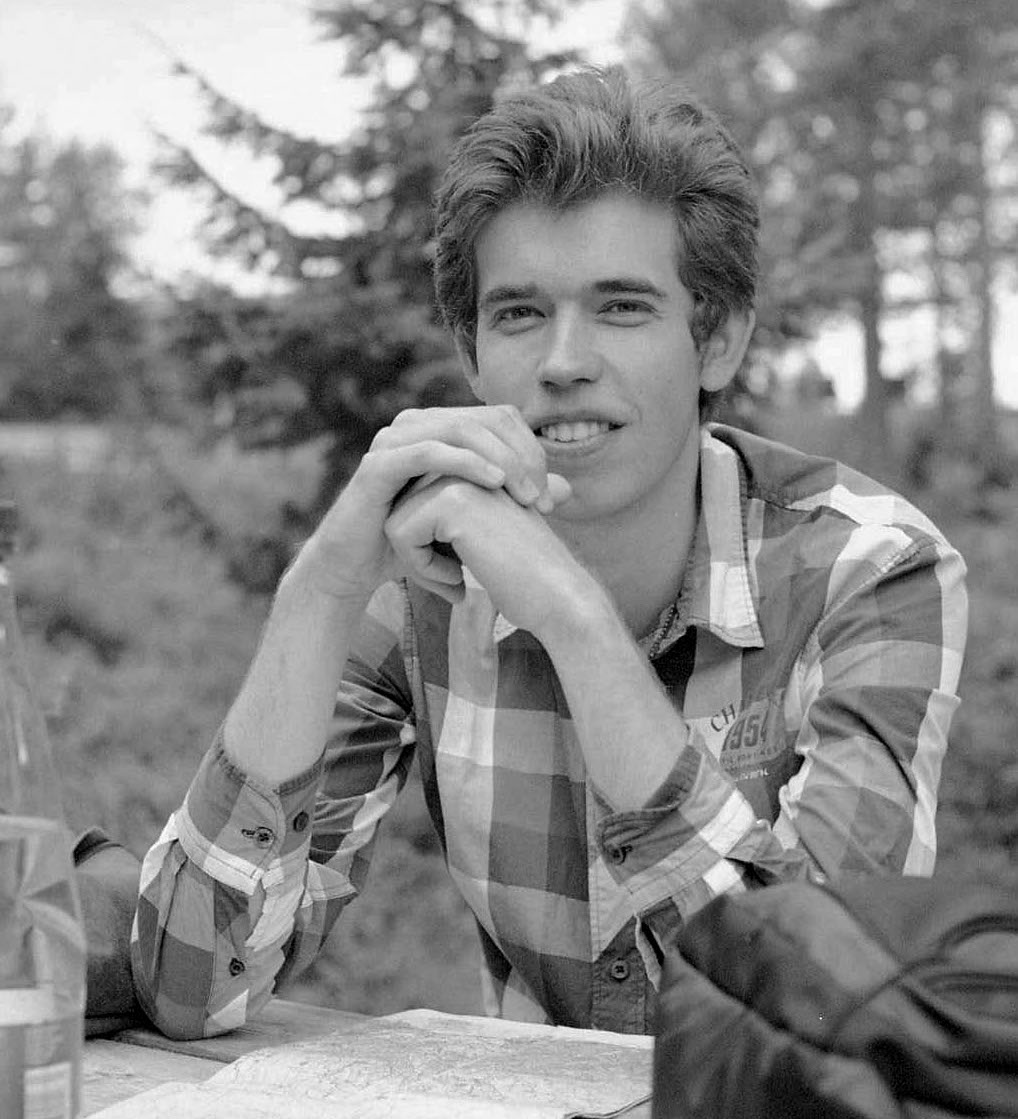
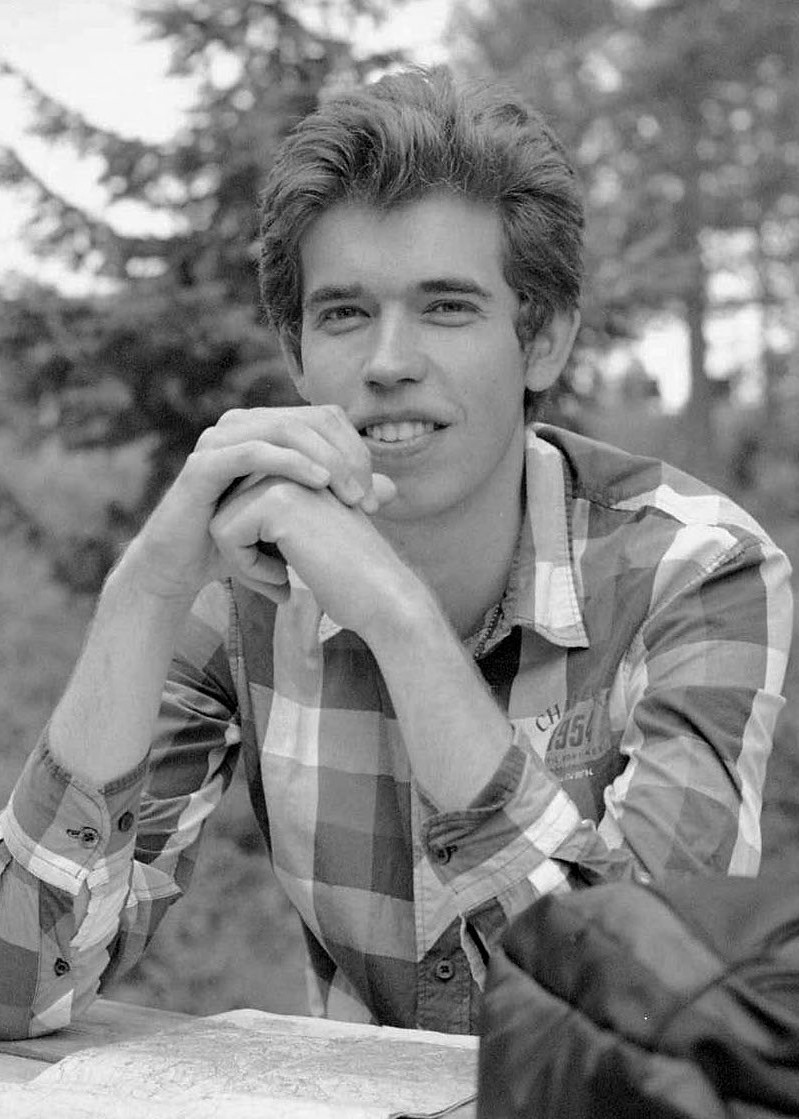
staging for domain

diff --git a/script.js b/script.js
@@ -7,21 +7,26 @@ $(document).ready(function() {
 		$('.arrow').toggleClass('img_flip');
 	});
 
-	var joost = 'Joost Kors, aged 27, is a designer with an interest in concrete buildings, landscape art and unconventional spacitial planning. With a background in ceramics as building material Joost explores heritage and innovation. Now as a recent graduate, he is available for work.';
+	var joost =
+		'Joost Kors, aged 27, is a designer with an interest in concrete buildings, landscape art and unconventional spacitial planning. With a background in ceramics as building material Joost explores heritage and innovation. Now as a recent graduate, he is available for work.';
 
-	var aho = 'The Fake News Data Sprint is pleased to have Jayson Harsin (The ... teaching, design and participation formats for the creation and use of';
+	var aho =
+		'An exploration of material, with a hands-on approach. The result is a public environment discussing meaning of hearth, fire and place.';
 
-	var nai = 'Dance is a performing art form consisting of purposefully selected sequences of human movement. This movement has aesthetic and symbolic value, and is acknowledged as dance by performers and observers within a particular culture. ';
+	var nai =
+		'How can we adapt climate design for a building with an unknown future. I propose a decentralized modular climate system.';
 
-	var pavilion = 'Dance is a performing art form consisting of purposefully selected sequences of human movement. This movement has aesthetic and symbolic value, and is acknowledged as dance by performers and observers within a particular culture. ';
+	var pavilion =
+		'This building aims to spark the imagination for the possibilities in architecture, and function as a testbed for new facade systems developed by the university.';
 
-	var transits = 'The potato is a starchy, tuberous crop from the perennial nightshade Solanum tuberosum. The word "potato" may refer either to the plant itself or to the edible tuber.';
+	var transits =
+		'Graphic work for an exhibition by Neil Forrest. Proud adventures of men trapped in ice are intersected with relics of Norwegian history.';
 
-	var binckhorst = 'Dance Dance Revolution, abbreviated DDR and also known as Dancing Stage in earlier games in Europe and Australasia, and some other games in Japan, is a music video game series produced by Konami.';
+	var binckhorst =
+		'Four weeks to produce a masterplan with 14 people! This urban challenge focusses on bottom-up strategies for large scale redevelopment.';
 
-	var hybrid = 'Maize, also known as corn, is a large grain plant first domesticated by indigenous peoples in southern Mexico about 10,000 years ago.';
-
-	var dsm = 'Mar hoe zit het noow mae de twedde vörm die zö duk vurkumt ien het Rivierengebied? Volgens t Rheinisches Wörterbuch kumt pieper van de ';
+	var hybrid =
+		'Exciting and innovative combinations in use are what hybrids are all about. Full of interesting social and spatial schemes, this building aims to develop a lively urban landscape.';
 
 	changeimg('joost');
 
@@ -34,25 +39,29 @@ $(document).ready(function() {
 	$(window).on('scroll', function() {
 		scrollPosition = $(this).scrollTop();
 		if (scrollPosition >= 50) {
-			$("#back").addClass('fixed');
+			$('#back').addClass('fixed');
 		} else {
-			$("#back").removeClass('fixed');
+			$('#back').removeClass('fixed');
 		}
 	});
 
 	function changeimg(this_one) {
-		if ($('.project_img').attr("src") != 'img/' + this_one + '.jpg') {
+		if ($('.project_img').attr('src') != 'img/' + this_one + '.jpg') {
 			// if not same change img
 			// fadeout current image
 			$('.project_img').fadeOut(200, function() {
 				console.log(this);
 				// fade in new image
-				$('.project_img').attr("src", 'img/' + this_one + '.jpg').fadeIn(200);
+				$('.project_img')
+					.attr('src', 'img/' + this_one + '.jpg')
+					.fadeIn(200);
 			});
 
 			// do same thing with the text
 			$('.paragraph').fadeOut(200, function() {
-				$('.paragraph').html(eval(this_one)).fadeIn(200);
+				$('.paragraph')
+					.html(eval(this_one))
+					.fadeIn(200);
 			});
 		}
 	}

diff --git a/case/Facade-Testing-Pavilion/index.html b/case/Facade-Testing-Pavilion/index.html
@@ -18,12 +18,12 @@
     <!-- Google META -->
     <!-- Microdata markup added by Google Structured Data Markup Helper. -->
     <link rel="alternate" hreflang="en-us" href="alternateURL">
-    <meta name="Description" content="">
+    <meta name="Description" content="This pavilion is one of three structures in an exhibition for and about the faculty of architecture in the TU Delft Botanical Garden. The building is designed to put new faÁade systems to the test, these can be student projects or part of research. The design consists out of four testsections, providing for vertical and angled surfaces. The detailing can handle a multitude of faÁade packages up to a thickness of 400 mm. The two inside spaces are used for exhibits and presentations, but they can also be heated and measured in a controlled manner for experiments on heat loss.">
 
     <!-- Facebook META -->
     <meta property="og:url" content="http://www.joostkors.com" />
     <meta property="og:title" content="Facade Testing Pavilion" />
-    <meta property="og:description" content="" />
+    <meta property="og:description" content="This pavilion is one of three structures in an exhibition for and about the faculty of architecture in the TU Delft Botanical Garden. The building is designed to put new faÁade systems to the test, these can be student projects or part of research. The design consists out of four testsections, providing for vertical and angled surfaces. The detailing can handle a multitude of faÁade packages up to a thickness of 400 mm. The two inside spaces are used for exhibits and presentations, but they can also be heated and measured in a controlled manner for experiments on heat loss." />
     <meta property="og:image" content="../../img/ico/facebook.png" />
     <meta property='og:type' content="website">
 
@@ -31,7 +31,7 @@
     <meta name="twitter:card" content="summary_large_image" />
     <meta name="twitter:site" content="" />
     <meta name="twitter:title" content="Facade Testing Pavilion" />
-    <meta name="twitter:description" content="" />
+    <meta name="twitter:description" content="This pavilion is one of three structures in an exhibition for and about the faculty of architecture in the TU Delft Botanical Garden. The building is designed to put new faÁade systems to the test, these can be student projects or part of research. The design consists out of four testsections, providing for vertical and angled surfaces. The detailing can handle a multitude of faÁade packages up to a thickness of 400 mm. The two inside spaces are used for exhibits and presentations, but they can also be heated and measured in a controlled manner for experiments on heat loss." />
     <meta name="twitter:image" content="../../img/ico/twitter.png" />
 
     <link rel="stylesheet" href="../../style.css" media="screen" title="no title">

diff --git a/style.css b/style.css
@@ -223,7 +223,8 @@ p a:before {
   background-repeat:no-repeat;
   background-position: center center;
   background-size:     cover;
-  width: 100%;
+  max-width: 100%;
+  max-height: 80vh;
 }
 
 .all_projects {
